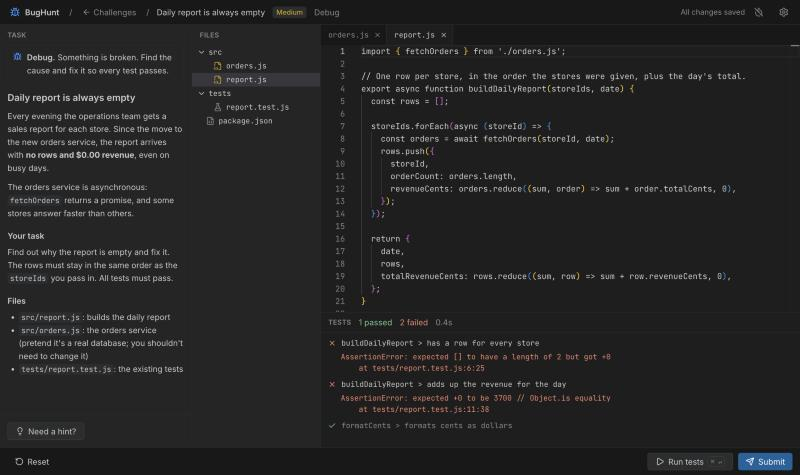
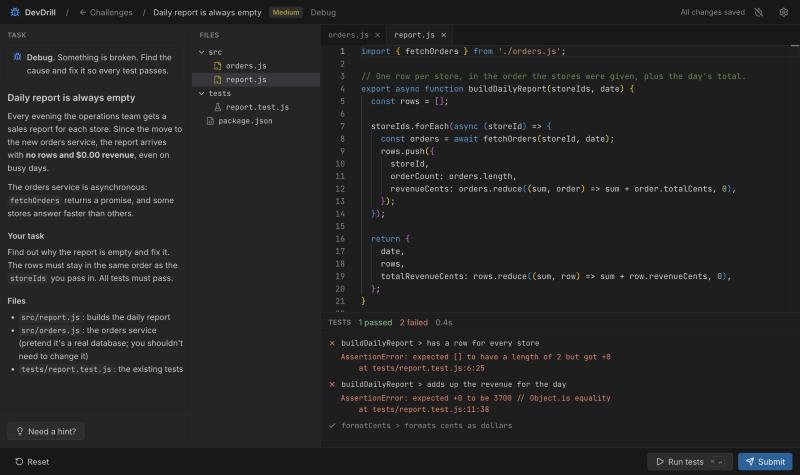
Rename BugHunt to DevDrill
The CLI is now npx devdrill. Renamed everywhere, including internal ids
(x-devdrill-token header, ~/.devdrill, DEVDRILL_* env vars, @devdrill/*
workspaces, storage keys) since nothing has shipped yet. New README
screenshot; plan records the decision.

diff --git a/packages/server/src/app.test.ts b/packages/server/src/app.test.ts
@@ -13,7 +13,7 @@ import type {
   SubmitResult,
   TestRunResult,
   WorkspaceInfo,
-} from '@bughunt/shared';
+} from '@devdrill/shared';
 import { createApp } from './app.js';
 import { appPaths } from './config.js';
 import { TOKEN_HEADER } from './security.js';
@@ -35,7 +35,7 @@ function api(method: 'get' | 'post' | 'put' | 'delete', url: string) {
 }
 
 async function startServer(): Promise<void> {
-  dataDir = await mkdtemp(path.join(tmpdir(), 'bughunt-app-test-'));
+  dataDir = await mkdtemp(path.join(tmpdir(), 'devdrill-app-test-'));
   const app = createApp({
     challenges: await loadChallenges(appPaths().challenges),
     dataDir,
@@ -402,9 +402,9 @@ describe('serving the built UI', () => {
   let uiDir: string;
 
   beforeAll(async () => {
-    uiDir = await mkdtemp(path.join(tmpdir(), 'bughunt-ui-test-'));
+    uiDir = await mkdtemp(path.join(tmpdir(), 'devdrill-ui-test-'));
     await mkdir(path.join(uiDir, 'assets'));
-    await writeFile(path.join(uiDir, 'index.html'), '<!doctype html><title>BugHunt</title>');
+    await writeFile(path.join(uiDir, 'index.html'), '<!doctype html><title>DevDrill</title>');
     await writeFile(path.join(uiDir, 'assets', 'app-abc123.js'), 'console.log(1);');
     const app = createApp({
       challenges: await loadChallenges(appPaths().challenges),
@@ -424,7 +424,7 @@ describe('serving the built UI', () => {
 
   it('serves the app page with security headers and no token', async () => {
     const res = await request(uiServer).get('/').set('Host', uiHost).expect(200);
-    expect(res.text).toContain('<title>BugHunt</title>');
+    expect(res.text).toContain('<title>DevDrill</title>');
     expect(res.text).not.toContain(TOKEN);
     expect(res.headers['content-security-policy']).toContain("frame-ancestors 'none'");
     expect(res.headers['x-content-type-options']).toBe('nosniff');
@@ -435,7 +435,7 @@ describe('serving the built UI', () => {
       .get(`/challenge/${ID}/results`)
       .set('Host', uiHost)
       .expect(200);
-    expect(res.text).toContain('<title>BugHunt</title>');
+    expect(res.text).toContain('<title>DevDrill</title>');
   });
 
   it('serves hashed assets with long caching', async () => {

diff --git a/packages/server/src/config.ts b/packages/server/src/config.ts
@@ -2,17 +2,16 @@ import { existsSync, readFileSync } from 'node:fs';
 import { homedir } from 'node:os';
 import path from 'node:path';
 
-// The project name is a placeholder until release (see docs/V1_PLAN.md, section 13).
-// Keep every user-facing use of the name behind this constant.
-export const APP_NAME = 'bughunt';
+// The CLI and package name. Keep every user-facing use of the name behind this constant.
+export const APP_NAME = 'devdrill';
 
 export const HOST = '127.0.0.1';
 
 export const DEFAULT_PORT = 3000;
 
-/** Workspaces, progress and settings. `BUGHUNT_HOME` overrides it (used by tests). */
+/** Workspaces, progress and settings. `DEVDRILL_HOME` overrides it (used by tests). */
 export function dataDir(): string {
-  return process.env.BUGHUNT_HOME ?? path.join(homedir(), `.${APP_NAME}`);
+  return process.env.DEVDRILL_HOME ?? path.join(homedir(), `.${APP_NAME}`);
 }
 
 export interface AppPaths {
@@ -40,8 +39,8 @@ export function appPaths(): AppPaths {
     name?: string;
     version?: string;
   };
-  const published = pkg.name !== '@bughunt/server';
-  const uiDir = process.env.BUGHUNT_UI_DIR ?? path.join(root, 'ui');
+  const published = pkg.name !== '@devdrill/server';
+  const uiDir = process.env.DEVDRILL_UI_DIR ?? path.join(root, 'ui');
 
   cached = {
     challenges: published ? path.join(root, 'challenges') : path.resolve(root, '../../challenges'),

diff --git a/scripts/dev.ts b/scripts/dev.ts
@@ -2,7 +2,7 @@
 //
 //   npm run dev
 //
-// Dev data lives in .dev-data/ (git-ignored), so it never touches your real ~/.bughunt.
+// Dev data lives in .dev-data/ (git-ignored), so it never touches your real ~/.devdrill.
 
 import { spawn, type ChildProcess } from 'node:child_process';
 import path from 'node:path';
@@ -23,8 +23,8 @@ function start(command: string, args: string[], env: Record<string, string>): Ch
 }
 
 const server = start('npx', ['tsx', 'watch', 'packages/server/src/index.ts', '--no-open'], {
-  BUGHUNT_HOME: path.join(ROOT, '.dev-data'),
-  BUGHUNT_DEV_ORIGIN: DEV_ORIGIN,
+  DEVDRILL_HOME: path.join(ROOT, '.dev-data'),
+  DEVDRILL_DEV_ORIGIN: DEV_ORIGIN,
 });
 
 let viteStarted = false;
@@ -42,7 +42,7 @@ server.stdout?.on('data', (chunk: Buffer) => {
   viteStarted = true;
   const [, port = '3000', token = ''] = match;
 
-  const vite = start('npx', ['vite', 'packages/web'], { BUGHUNT_API_PORT: port });
+  const vite = start('npx', ['vite', 'packages/web'], { DEVDRILL_API_PORT: port });
   vite.stdout?.on('data', (c: Buffer) => process.stdout.write(`[web] ${c.toString()}`));
   console.log(`\nDev UI: ${DEV_ORIGIN}/#token=${token}\n`);
 });

diff --git a/scripts/lib/validateChallenge.ts b/scripts/lib/validateChallenge.ts
@@ -2,7 +2,7 @@ import { cp, lstat, mkdtemp, readdir, readFile, rm } from 'node:fs/promises';
 import { tmpdir } from 'node:os';
 import path from 'node:path';
 import { init as initLexer, parse as parseImports } from 'es-module-lexer';
-import type { ChallengeMeta, TestRunResult } from '@bughunt/shared';
+import type { ChallengeMeta, TestRunResult } from '@devdrill/shared';
 import { parseChallengeMeta } from '../../packages/server/src/services/challengeMeta.js';
 import { IGNORED_FILES } from '../../packages/server/src/services/files.js';
 import { runTests } from '../../packages/server/src/services/testRunner.js';
@@ -247,7 +247,7 @@ function checkBehaviour(
 
 /** Copies each folder on top of the previous one into a temp folder, then runs the tests. */
 async function runLayers(layers: string[]): Promise<TestRunResult> {
-  const work = await mkdtemp(path.join(tmpdir(), 'bughunt-validate-'));
+  const work = await mkdtemp(path.join(tmpdir(), 'devdrill-validate-'));
   try {
     for (const layer of layers) {
       await cp(layer, work, {

diff --git a/packages/web/src/pages/Workspace.tsx b/packages/web/src/pages/Workspace.tsx
@@ -14,7 +14,7 @@ import {
   useDefaultLayout,
   type LayoutStorage,
 } from 'react-resizable-panels';
-import type { ChallengeDetail, TestRunResult } from '@bughunt/shared';
+import type { ChallengeDetail, TestRunResult } from '@devdrill/shared';
 import { api } from '../api/client';
 import { ConfirmDialog } from '../components/ConfirmDialog';
 import { FileTree } from '../components/FileTree';
@@ -66,8 +66,8 @@ export function Workspace({ id }: { id: string }) {
       }),
   );
   const buffers = useSyncExternalStore(store.subscribe, store.getSnapshot);
-  const columns = useDefaultLayout({ id: 'bughunt-columns', storage: layoutStorage });
-  const rows = useDefaultLayout({ id: 'bughunt-editor-rows', storage: layoutStorage });
+  const columns = useDefaultLayout({ id: 'devdrill-columns', storage: layoutStorage });
+  const rows = useDefaultLayout({ id: 'devdrill-editor-rows', storage: layoutStorage });
   const [timer] = useState(() => new ActiveTimer(id));
   useEffect(() => {
     timer.start();

diff --git a/packages/web/src/workspace/results.ts b/packages/web/src/workspace/results.ts
@@ -1,4 +1,4 @@
-import type { ChallengeSummary, SubmitResult } from '@bughunt/shared';
+import type { ChallengeSummary, SubmitResult } from '@devdrill/shared';
 
 export interface StoredResult {
   submit: SubmitResult;
@@ -6,7 +6,7 @@ export interface StoredResult {
   elapsedMs: number;
 }
 
-const resultKey = (id: string) => `bughunt-result-${id}`;
+const resultKey = (id: string) => `devdrill-result-${id}`;
 
 // Fallback for when sessionStorage is unavailable: the result still survives navigation.
 const memory = new Map<string, StoredResult>();
@@ -45,7 +45,7 @@ export function clearAllResults(): void {
   memory.clear();
   try {
     for (const key of Object.keys(sessionStorage)) {
-      if (key.startsWith('bughunt-result-')) sessionStorage.removeItem(key);
+      if (key.startsWith('devdrill-result-')) sessionStorage.removeItem(key);
     }
   } catch {
     // Nothing stored.

diff --git a/eslint.config.js b/eslint.config.js
@@ -26,15 +26,15 @@ export default defineConfig(
         'error',
         { argsIgnorePattern: '^_', varsIgnorePattern: '^_', ignoreRestSiblings: true },
       ],
-      // @bughunt/shared is types-only and is never built or published,
+      // @devdrill/shared is types-only and is never built or published,
       // so a runtime import of it would crash the published server.
       '@typescript-eslint/no-restricted-imports': [
         'error',
         {
           paths: [
             {
-              name: '@bughunt/shared',
-              message: '@bughunt/shared is types-only. Use `import type`.',
+              name: '@devdrill/shared',
+              message: '@devdrill/shared is types-only. Use `import type`.',
               allowTypeImports: true,
             },
           ],

diff --git a/packages/web/src/pages/SettingsPage.tsx b/packages/web/src/pages/SettingsPage.tsx
@@ -1,5 +1,5 @@
 import { useState, type ReactNode } from 'react';
-import type { Settings } from '@bughunt/shared';
+import type { Settings } from '@devdrill/shared';
 import { api } from '../api/client';
 import { ConfirmDialog } from '../components/ConfirmDialog';
 import { TopBar } from '../components/TopBar';
@@ -31,7 +31,7 @@ export function SettingsPage() {
       // Revealed hints are per-browser; clear them too so it's a real fresh start.
       try {
         for (const key of Object.keys(localStorage)) {
-          if (key.startsWith('bughunt-hints-') || key.startsWith('bughunt-time-')) {
+          if (key.startsWith('devdrill-hints-') || key.startsWith('devdrill-time-')) {
             localStorage.removeItem(key);
           }
         }

diff --git a/packages/web/src/components/TaskPanel.tsx b/packages/web/src/components/TaskPanel.tsx
@@ -1,7 +1,7 @@
 import { Bug, Lightbulb, Sparkles } from 'lucide-react';
 import { useState } from 'react';
 import Markdown, { type Components } from 'react-markdown';
-import type { ChallengeDetail } from '@bughunt/shared';
+import type { ChallengeDetail } from '@devdrill/shared';
 import { Button } from './ui';
 
 // Links leave the app in a new tab, so leaving never drops unsaved work.
@@ -9,7 +9,7 @@ const markdownComponents: Components = {
   a: ({ node: _node, ...props }) => <a {...props} target="_blank" rel="noopener noreferrer" />,
 };
 
-const hintsKey = (id: string) => `bughunt-hints-${id}`;
+const hintsKey = (id: string) => `devdrill-hints-${id}`;
 
 function readShownHints(id: string): number {
   try {

diff --git a/scripts/smoke-release.ts b/scripts/smoke-release.ts
@@ -74,7 +74,7 @@ try {
   const port = await freePort();
   server = spawn(process.execPath, [cli, '--no-open', '--port', String(port)], {
     cwd: app,
-    env: { ...process.env, BUGHUNT_HOME: home },
+    env: { ...process.env, DEVDRILL_HOME: home },
     stdio: ['ignore', 'pipe', 'pipe'],
   });
   const token = await new Promise<string>((resolve, reject) => {
@@ -99,7 +99,7 @@ try {
     const res = await fetch(`${base}/api${route}`, {
       method,
       headers: {
-        'x-bughunt-token': token,
+        'x-devdrill-token': token,
         ...(body !== undefined ? { 'Content-Type': 'application/json' } : {}),
       },
       ...(body !== undefined ? { body: JSON.stringify(body) } : {}),

diff --git a/packages/server/src/app.ts b/packages/server/src/app.ts
@@ -16,7 +16,7 @@ import type {
   TestCaseResult,
   TestRunResult,
   WorkspaceInfo,
-} from '@bughunt/shared';
+} from '@devdrill/shared';
 import { APP_NAME } from './config.js';
 import { HttpError } from './httpError.js';
 import { apiSecurity, uiSecurity } from './security.js';
@@ -31,7 +31,7 @@ import { MAX_FILE_BYTES, WorkspaceManager } from './services/workspaceManager.js
 
 export interface AppOptions {
   challenges: Map<string, Challenge>;
-  /** Where workspaces, progress.json and settings.json live (normally ~/.bughunt). */
+  /** Where workspaces, progress.json and settings.json live (normally ~/.devdrill). */
   dataDir: string;
   token: string;
   extraOrigins?: string[];

diff --git a/packages/web/src/workspace/timer.test.ts b/packages/web/src/workspace/timer.test.ts
@@ -37,7 +37,7 @@ describe('ActiveTimer', () => {
       timer.start();
       vi.advanceTimersByTime(3000);
       expect(timer.getSnapshot()).toBe(3000);
-      expect(Number(localStorage.getItem('bughunt-time-t1'))).toBe(3000);
+      expect(Number(localStorage.getItem('devdrill-time-t1'))).toBe(3000);
 
       timer.reset();
       expect(timer.get()).toBe(0);
@@ -50,7 +50,7 @@ describe('ActiveTimer', () => {
   });
 
   it('picks up where it left off after a reload', () => {
-    localStorage.setItem('bughunt-time-t2', '42000');
+    localStorage.setItem('devdrill-time-t2', '42000');
     expect(new ActiveTimer('t2').get()).toBe(42000);
   });
 });
